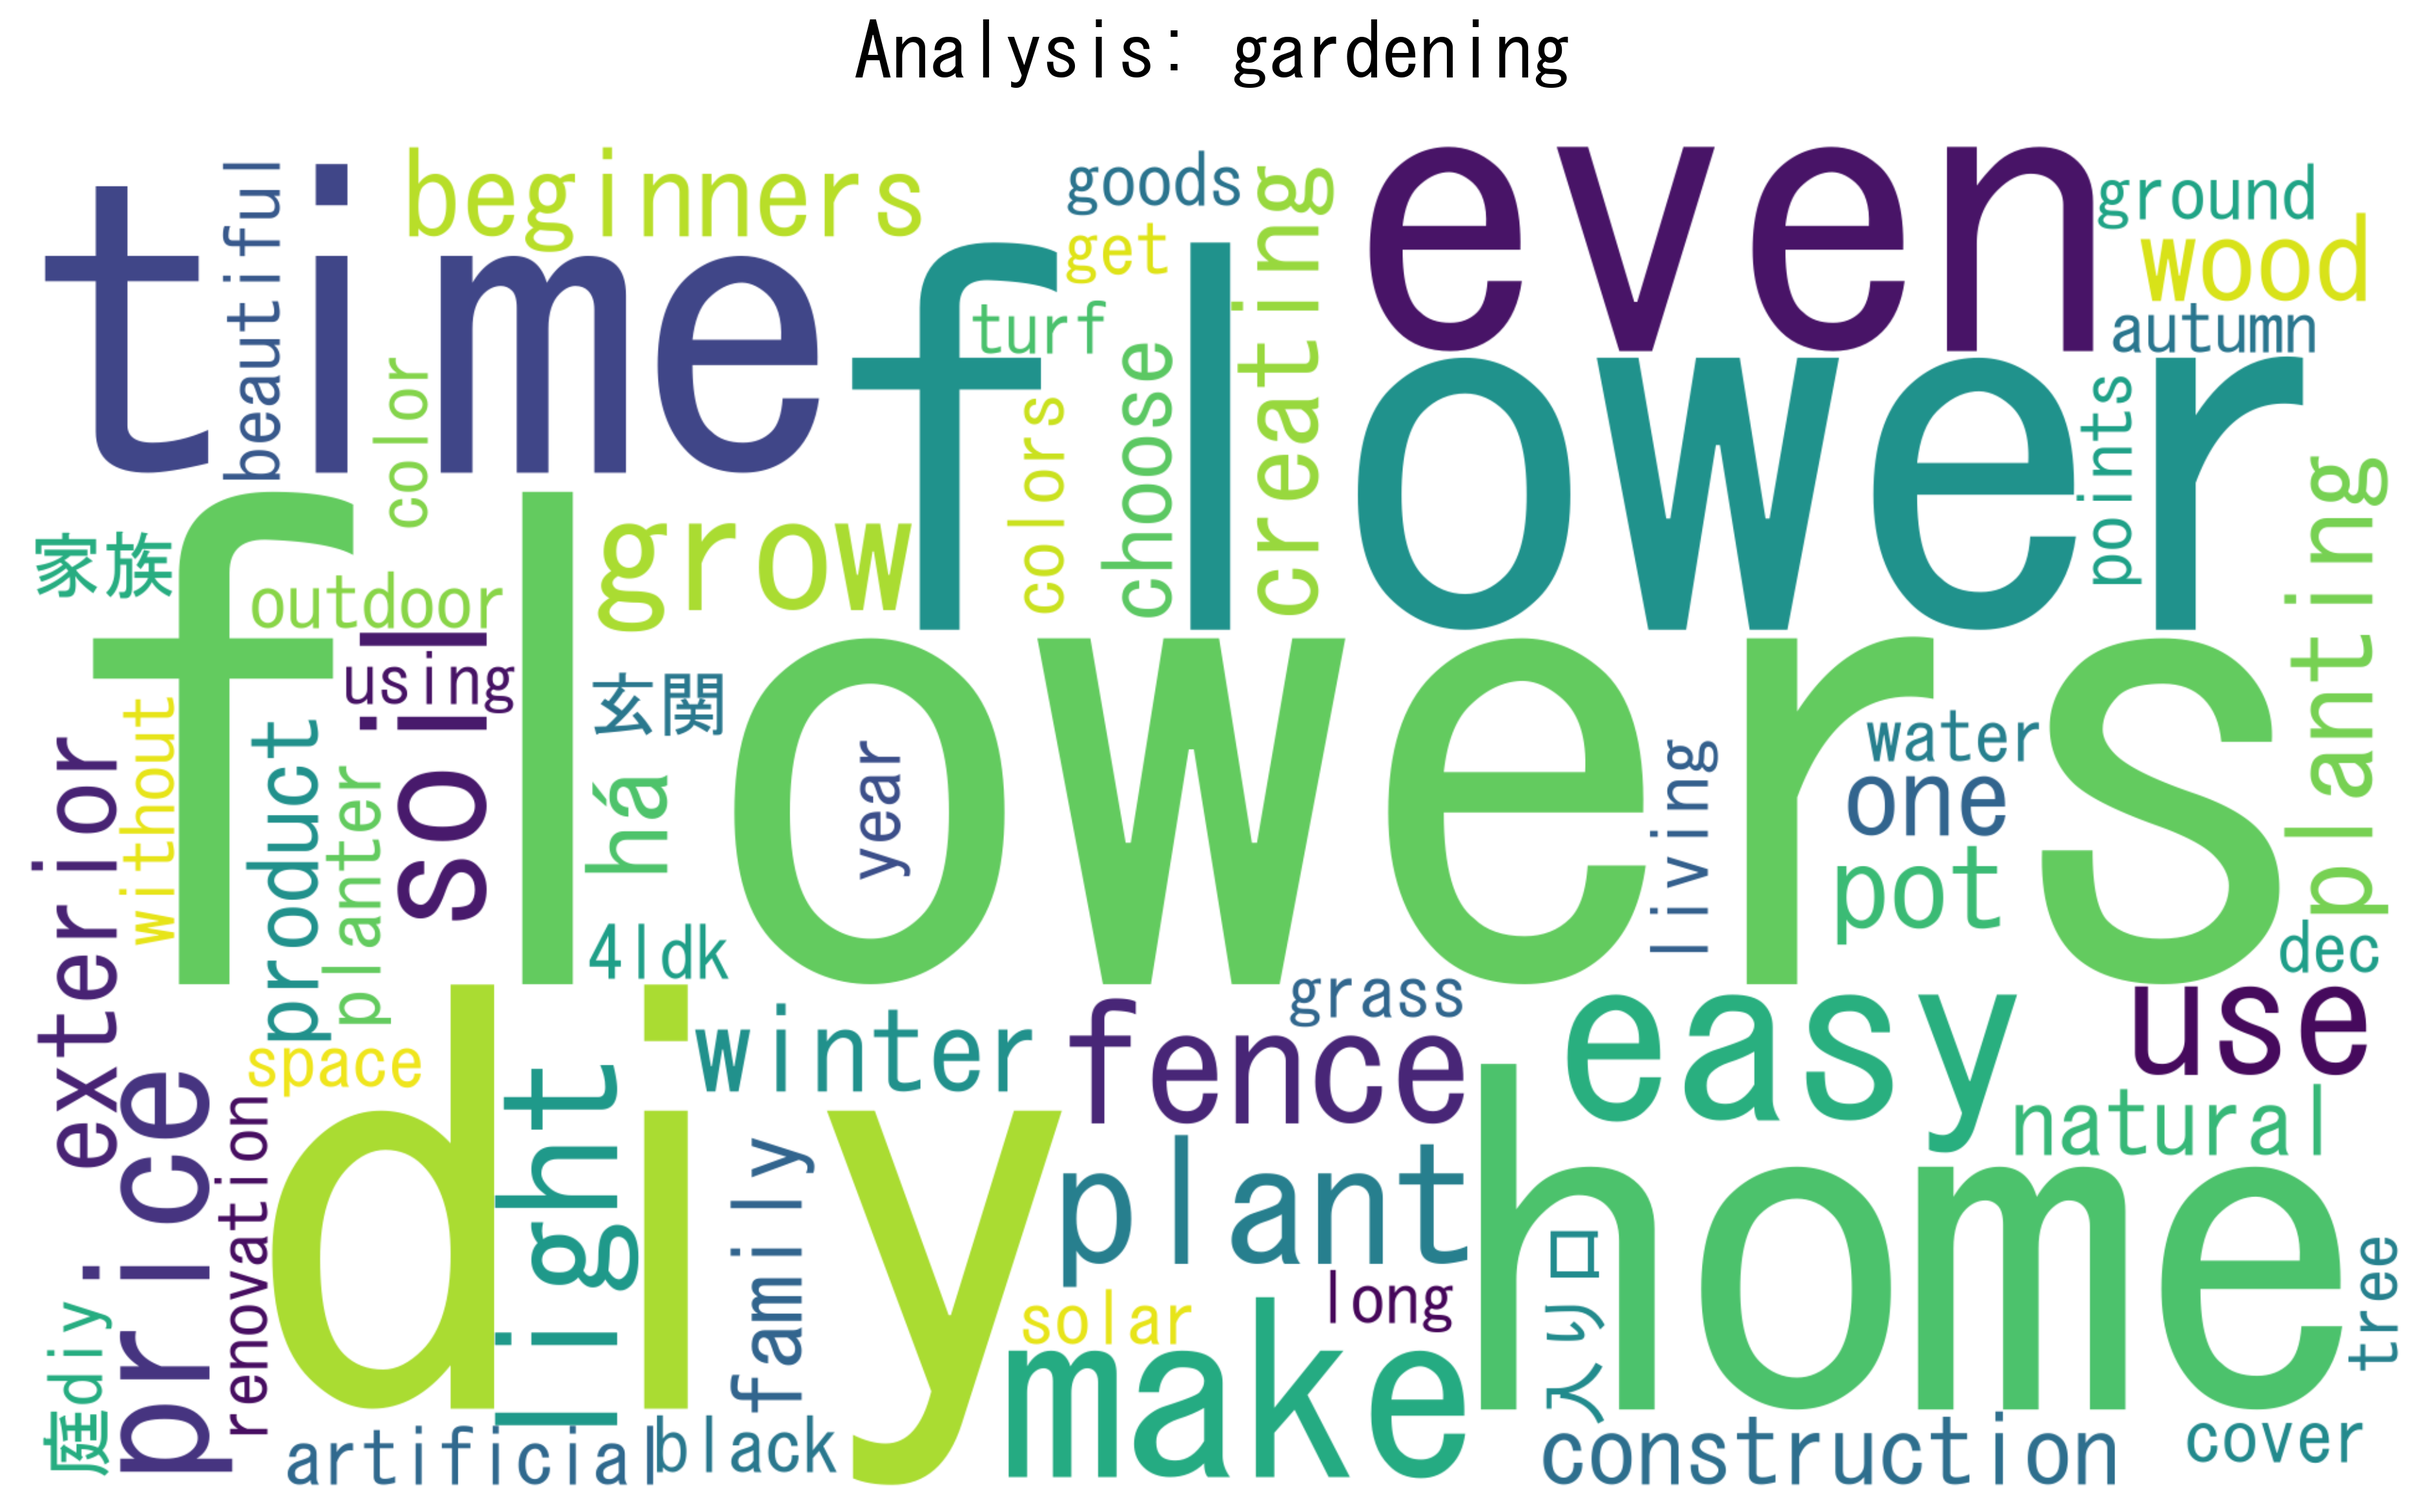
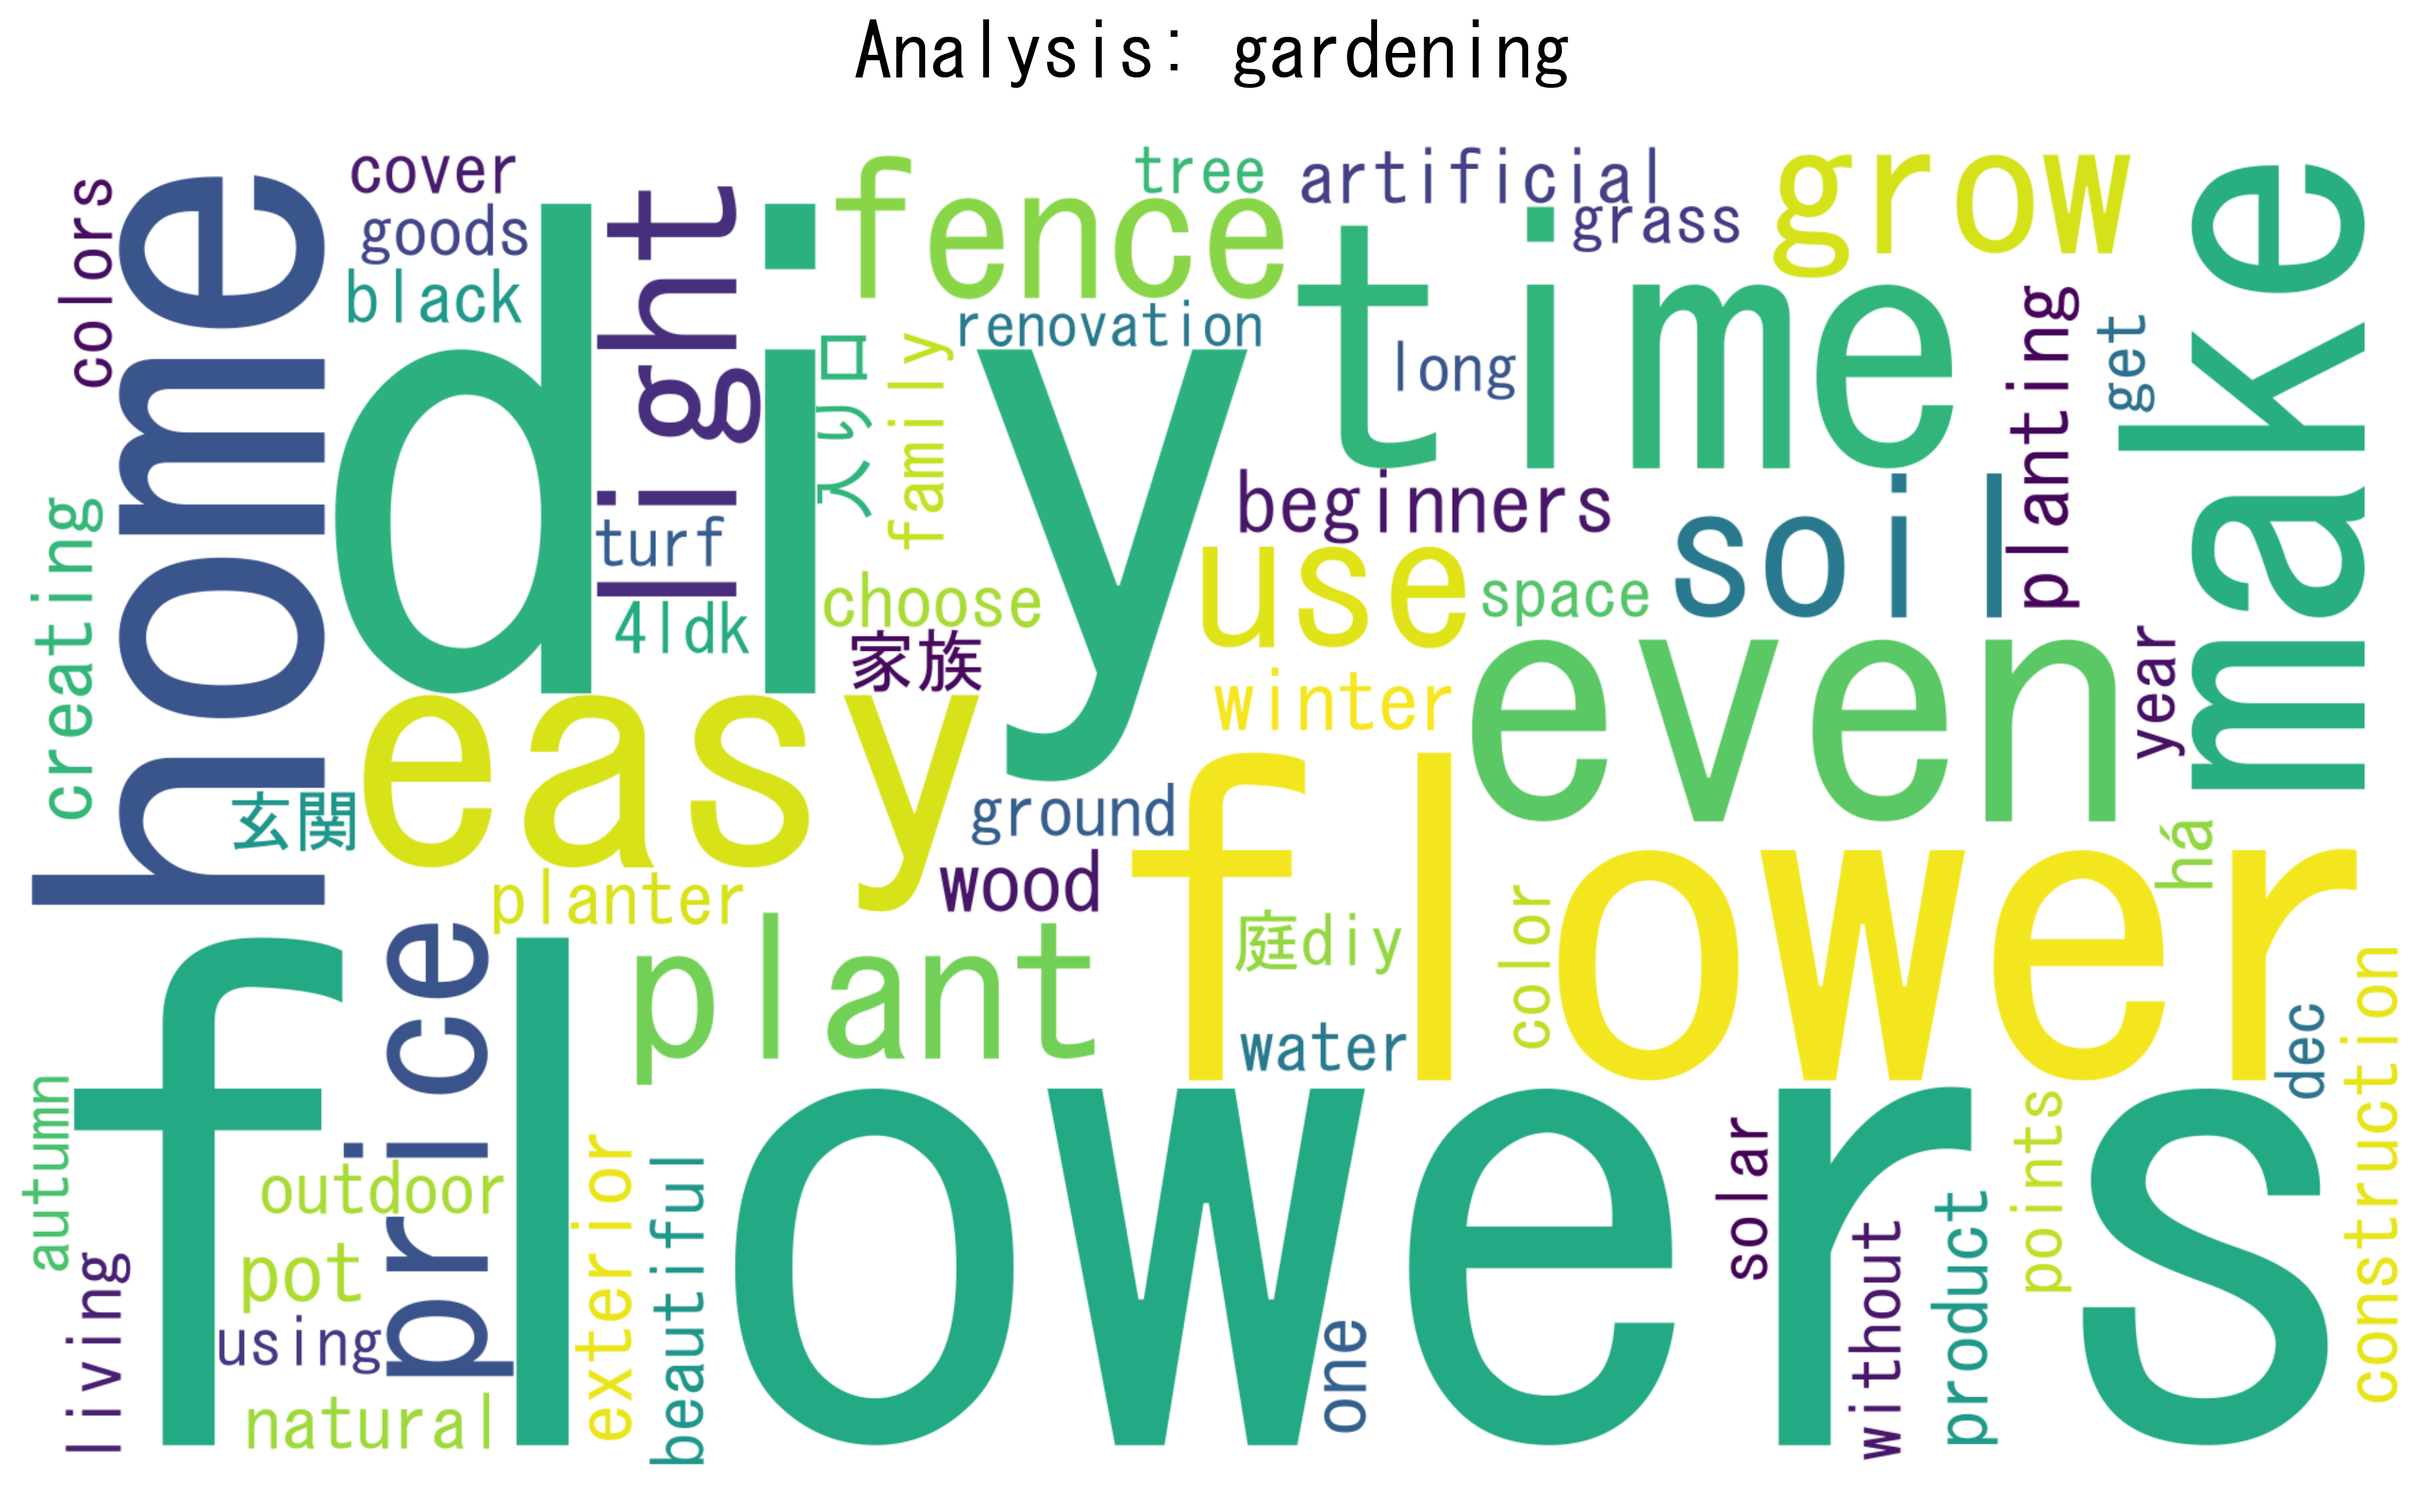
Refactor and enhance WordCloudArchitect class
Improved docstrings and comments for clarity, refined stopword initialization logic, enhanced error handling, and updated method signatures for better maintainability. The code now provides more robust multilingual support, clearer output messages, and higher-quality image generation.

diff --git a/generate_wordcloud.py b/generate_wordcloud.py
@@ -12,55 +12,54 @@ from typing import List, Dict, Set, Any
 
 
 class WordCloudArchitect:
-    """
-    A professional-grade tool to generate Word Clouds from Excel data,
-    supporting multilingual processing (English, Japanese, Portuguese, etc.)
-    with NLTK and custom stopword integration.
+    """A professional tool to generate high-quality Word Clouds from Excel data.
+
+    This class handles multilingual text processing (English, Japanese, etc.)
+    by integrating NLTK stopword sets and the Janome morphological analyzer.
     """
 
     def __init__(
         self, font_path: str, language: str = "english", stopwords_file: str = None
     ):
-        """
-        Initializes the architect with font settings, language, and stopword filters.
+        """Initializes the architect with font settings and language logic.
 
         Args:
-            font_path (str): Path to a CJK-supported font file (.ttf, .ttc).
-            language (str): Language name for NLTK (e.g., 'english', 'portuguese', 'japanese').
-            stopwords_file (str, optional): Path to a .txt file containing
-                                            custom stopwords (one per line).
+            font_path (str): Absolute path to a CJK-supported font file (.ttf, .ttc).
+            language (str): Target language for NLTK (e.g., 'english', 'japanese').
+            stopwords_file (str, optional): Path to an external .txt stopword file.
         """
         self.language = language.lower()
         self.font_path = font_path
         self.tokenizer_jp = Tokenizer() if self.language == "japanese" else None
 
-        # Ensure NLTK resources are available
+        # Ensure NLTK resources are available locally
         try:
             nltk.data.find("corpora/stopwords")
         except LookupError:
             nltk.download("stopwords", quiet=True)
 
-        # Initialize the master stopword set
+        # Build the master set of words to ignore
         self.stop_set = self._initialize_stopwords(stopwords_file)
 
     def _initialize_stopwords(self, stopwords_file: str) -> Set[str]:
-        """
-        Combines NLTK, internal, and external stopwords.
+        """Combines multiple stopword sources into a single optimized set.
+
+        Args:
+            stopwords_file (str): Path to the user-defined stopword file.
 
         Returns:
-            Set[str]: A unified set of words to be ignored.
+            Set[str]: A unified set containing NLTK, internal, and external stopwords.
         """
         master_set = set()
 
-        # 1. Load NLTK stopwords (if the language is supported by NLTK)
-        # Note: NLTK does not have a 'japanese' corpus, we handle it internally.
+        # 1. Load NLTK stopwords for non-Japanese languages
         if self.language != "japanese":
             try:
                 master_set.update(stopwords.words(self.language))
             except Exception as e:
-                print(f"Warning: NLTK language '{self.language}' not found. {e}")
+                print(f"Warning: NLTK language '{self.language}' unavailable. {e}")
 
-        # 2. Internal Japanese structural stopwords
+        # 2. Add structural Japanese stopwords
         if self.language == "japanese":
             master_set.update(
                 {
@@ -82,7 +81,6 @@ class WordCloudArchitect:
                     "だけ",
                     "ほど",
                     "ばかり",
-                    "いる",
                     "なっ",
                     "でき",
                     "あり",
@@ -93,14 +91,21 @@ class WordCloudArchitect:
                 }
             )
 
-        # 3. External custom file
+        # 3. Incorporate external custom file
         if stopwords_file:
             master_set.update(self._load_external_stopwords(stopwords_file))
 
         return master_set
 
     def _load_external_stopwords(self, file_path: str) -> Set[str]:
-        """Reads stopwords from an external text file."""
+        """Reads custom stopwords from a local text file.
+
+        Args:
+            file_path (str): Path to the .txt file (one word per line).
+
+        Returns:
+            Set[str]: Unique stopwords extracted from the file.
+        """
         try:
             if not os.path.exists(file_path):
                 print(f"Warning: Stopwords file '{file_path}' not found.")
@@ -112,33 +117,42 @@ class WordCloudArchitect:
             return set()
 
     def _sanitize_filename(self, filename: str) -> str:
-        """Removes illegal characters from filenames."""
+        """Removes reserved OS characters from a string to create a safe filename.
+
+        Args:
+            filename (str): The raw string to be sanitized.
+
+        Returns:
+            str: A clean string safe for file creation.
+        """
         return re.sub(r'[\\/*?:"<>|]', "", filename)
 
     def tokenize(self, text: str) -> List[str]:
-        """
-        Tokenizes text based on the configured language.
+        """Segments raw text into a list of semantically relevant tokens.
+
+        Args:
+            text (str): The raw input string from the data source.
 
         Returns:
-            List[str]: Cleaned tokens (nouns/adjectives for JP, all valid words for others).
+            List[str]: A list of cleaned words, filtered by language rules.
         """
         if not isinstance(text, str) or not text.strip():
             return []
 
         if self.language == "japanese":
-            # Japanese Morphological Analysis Logic
+            # Apply morphological analysis for Japanese
             tokens = self.tokenizer_jp.tokenize(text)
             words = []
             for token in tokens:
                 pos = token.part_of_speech.split(",")[0]
                 surface = token.surface.lower()
+                # Extract only nouns and adjectives not in the stopword set
                 if pos in ["名詞", "形容詞"] and surface not in self.stop_set:
                     if len(surface) > 1 and not surface.isdigit():
                         words.append(surface)
             return words
         else:
-            # Standard Western Language Logic
-            # Regex extracts only alphanumeric words
+            # Use regex tokenization for Western languages
             raw_words = re.findall(r"\b\w+\b", text.lower())
             return [
                 w
@@ -147,15 +161,25 @@ class WordCloudArchitect:
             ]
 
     def generate_cloud(self, word_freq: Dict[str, int], title: str, output_path: str):
-        """Generates and saves the WordCloud image."""
+        """Creates a WordCloud image and saves it to the specified directory.
+
+        Args:
+            word_freq (Dict[str, int]): Dictionary mapping words to frequencies.
+            title (str): The title text to display above the cloud.
+            output_path (str): Full path where the .png image will be saved.
+        """
         try:
             if not word_freq:
-                print(f"-> Skipping '{title}': Empty frequency dict.")
+                print(f"-> Skipping '{title}': Empty frequency data.")
                 return
 
-            # Setup CJK font properties for Matplotlib
+            if not os.path.exists(self.font_path):
+                raise FileNotFoundError(f"Font file missing at: {self.font_path}")
+
+            # Define font properties for CJK title support
             font_prop = font_manager.FontProperties(fname=self.font_path)
 
+            # Build the cloud with high resolution and specific colormap
             wc = WordCloud(
                 width=1920,
                 height=1080,
@@ -166,70 +190,85 @@ class WordCloudArchitect:
                 prefer_horizontal=0.7,
             ).generate_from_frequencies(word_freq)
 
+            # Render plot using Matplotlib
             plt.figure(figsize=(16, 9))
             plt.imshow(wc, interpolation="bilinear")
             plt.title(title, fontproperties=font_prop, fontsize=28, pad=25)
             plt.axis("off")
+
+            # Save output with 300 DPI for professional quality
             plt.savefig(output_path, bbox_inches="tight", dpi=300)
-            plt.close()
-            print(f"-> Cloud saved: {output_path}")
+            plt.close()  # Clear memory
+            print(f"-> Output generated: {output_path}")
+
         except Exception as e:
-            print(f"-> Error generating cloud for {title}: {e}")
+            print(f"-> Critical failure in Cloud Generation for {title}: {e}")
 
     def run_pipeline(
         self, input_file: str, sheet: str, text_col: str, key_col: str, output_dir: str
     ):
-        """Main execution flow: Load -> Process -> Save."""
+        """Orchestrates the full flow from Excel loading to visual export.
+
+        Args:
+            input_file (str): Path to the source .xlsx file.
+            sheet (str): Name of the worksheet to process.
+            text_col (str): Column name containing the raw text.
+            key_col (str): Column name for keyword categorization.
+            output_dir (str): Folder path for storing results.
+        """
         if not os.path.exists(output_dir):
             os.makedirs(output_dir)
 
         try:
             df = pd.read_excel(input_file, sheet_name=sheet)
-            print(f"-> Data loaded. Language set to: {self.language}")
+            print(f"-> System ready. Mode: {self.language.upper()}")
         except Exception as e:
-            print(f"-> Error loading Excel: {e}")
+            print(f"-> Failed to load data source: {e}")
             return
 
         all_results = []
         unique_keys = df[key_col].dropna().unique()
 
+        # Iterate through unique categories
         for key in unique_keys:
-            print(f"Processing: {key}")
+            print(f"Processing segment: {key}")
             subset = df[df[key_col] == key]
-            text = " ".join(subset[text_col].dropna().astype(str))
+            combined_text = " ".join(subset[text_col].dropna().astype(str))
 
-            words = self.tokenize(text)
+            # Clean and count words
+            words = self.tokenize(combined_text)
             counts = Counter(words)
 
+            # Build the frequency report dataset
             for word, freq in counts.most_common(300):
                 all_results.append({"Keyword": key, "Word": word, "Frequency": freq})
 
+            # Create sanitized filename and generate visualization
             safe_name = self._sanitize_filename(str(key))
             img_path = os.path.join(output_dir, f"cloud_{safe_name}.png")
             self.generate_cloud(dict(counts), f"Analysis: {key}", img_path)
 
-        # Save Report
+        # Export the consolidated statistical report
         report_path = os.path.join(output_dir, "analysis_report.xlsx")
         pd.DataFrame(all_results).to_excel(report_path, index=False)
-        print(f"\n[DONE] Check the '{output_dir}' folder.")
+        print(f"\n[COMPLETE] All files saved in: '{output_dir}'")
 
 
-# --- EXECUTION BLOCK ---
+# --- MAIN EXECUTION ---
 if __name__ == "__main__":
-    # 1. DEFINE LANGUAGE VARIABLE
-    # Options: 'english', 'portuguese', 'spanish', 'french', 'japanese', etc
+    # Language Configuration: 'english', 'portuguese', 'japanese', etc.
     SELECTED_LANGUAGE = "english"
 
-    # 2. PATHS
-    FONT = r"C:\Windows\Fonts\msgothic.ttc"
-    # Choose the correct stopword file based on language if needed
-    STOP_FILE = "input/stopwords_en.txt"
+    # System Paths
+    SYSTEM_FONT = r"C:\Windows\Fonts\msgothic.ttc"
+    STOPWORDS_PATH = "input/stopwords_en.txt"
 
-    # Initialize and Execute
+    # Application Instance
     architect = WordCloudArchitect(
-        font_path=FONT, language=SELECTED_LANGUAGE, stopwords_file=STOP_FILE
+        font_path=SYSTEM_FONT, language=SELECTED_LANGUAGE, stopwords_file=STOPWORDS_PATH
     )
 
+    # Process Data
     architect.run_pipeline(
         input_file="input/Textual analysis Gardens.xlsx",
         sheet="Database",
